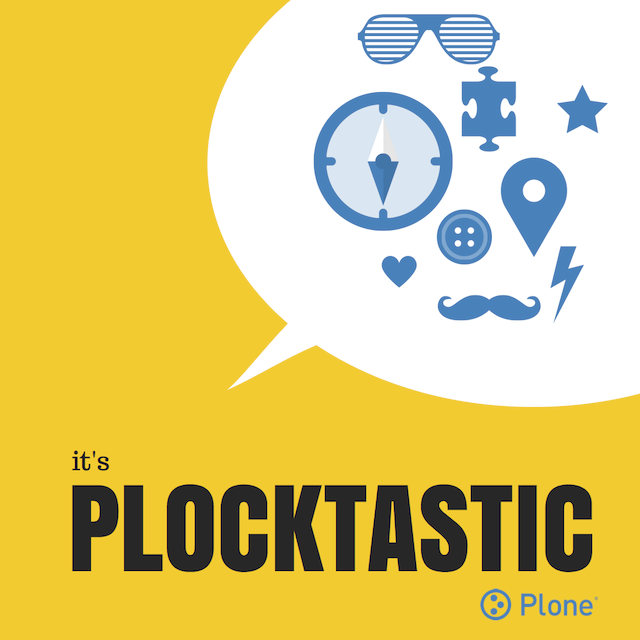
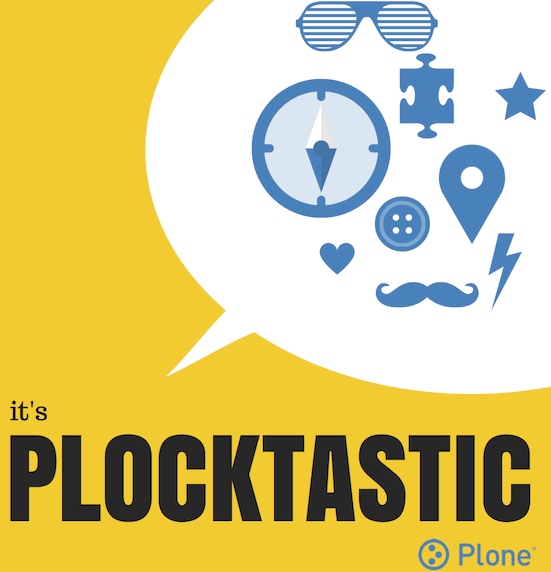
Crop & change URL
- More cropping of Plocktastic image
- Change URL to https://raw.githubusercontent.com

diff --git a/plock/config.py b/plock/config.py
@@ -13,8 +13,9 @@ extends =
 #    %s
 """
 
-PLOCK_PLONE_4_3_URL = "https://raw.github.com/plock/pins/master/plone-4-3"
-PLOCK_PLONE_DEV_URL = "https://raw.github.com/plock/pins/master/dev"
+GITHUB_RAW_URL = 'https://raw.githubusercontent.com'
+PLOCK_PLONE_4_3_URL = "%s/plock/pins/master/plone-4-3" % GITHUB_RAW_URL
+PLOCK_PLONE_DEV_URL = "%s/plock/pins/master/dev" % GITHUB_RAW_URL
 UNIFIEDINSTALLER_DIR = "Plone-4.3.4-UnifiedInstaller"
 UNIFIEDINSTALLER_URL = "https://launchpad.net/plone/4.3/4.3.4/+download/"
 UNIFIEDINSTALLER_URL += "Plone-4.3.4-r1-UnifiedInstaller.tgz"

diff --git a/CHANGES.rst b/CHANGES.rst
@@ -4,6 +4,7 @@ Changelog
 0.4.0 (2015-07-26)
 ------------------
 
+- Update GitHub content URL to https://raw.githubusercontent.com
 - Rebrand: "Pip installs Plock. Plock installs Plone."
 - Rename ``--write-only`` to ``--write``
 - Rename ``--list-addons`` to ``--list``
